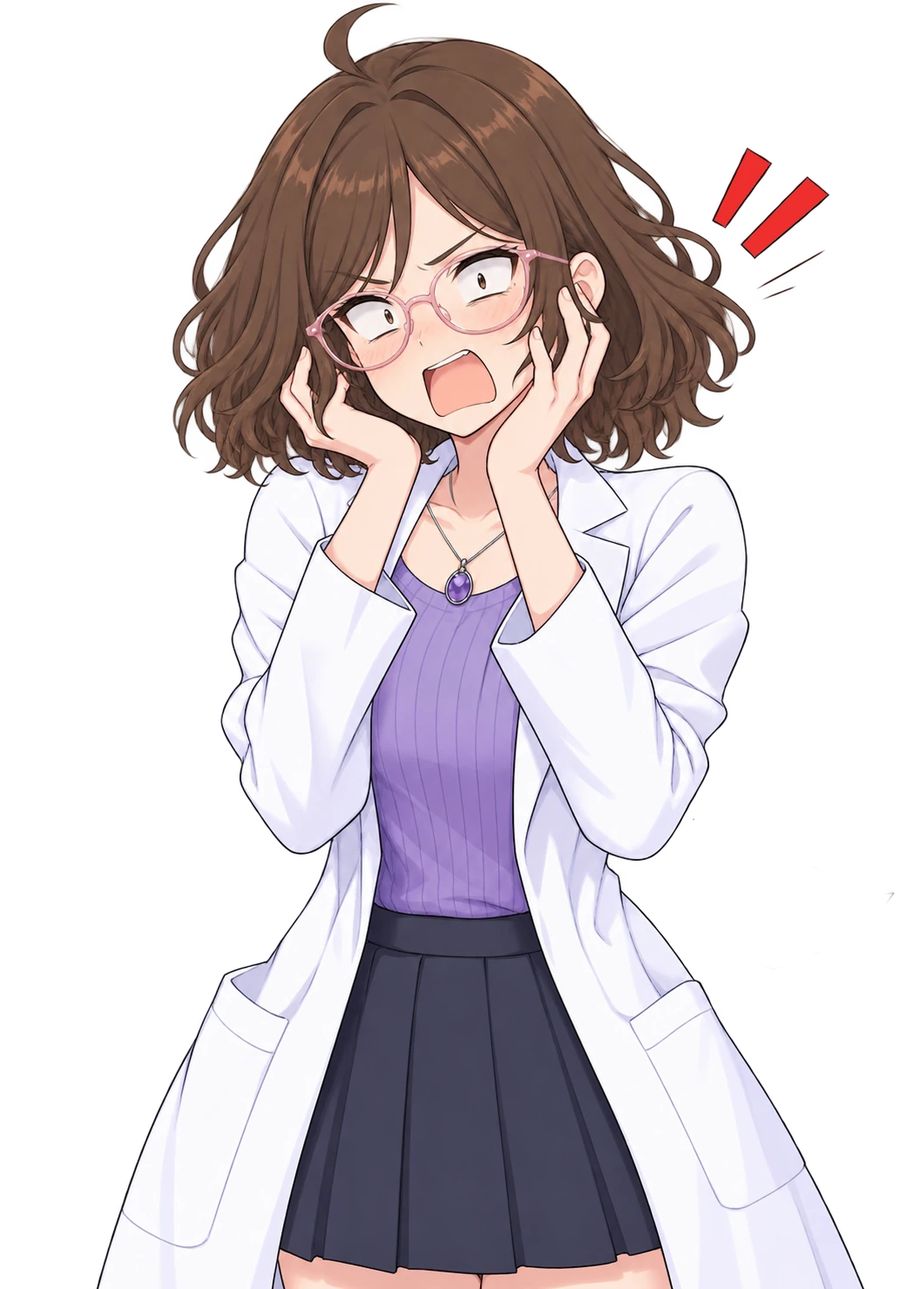
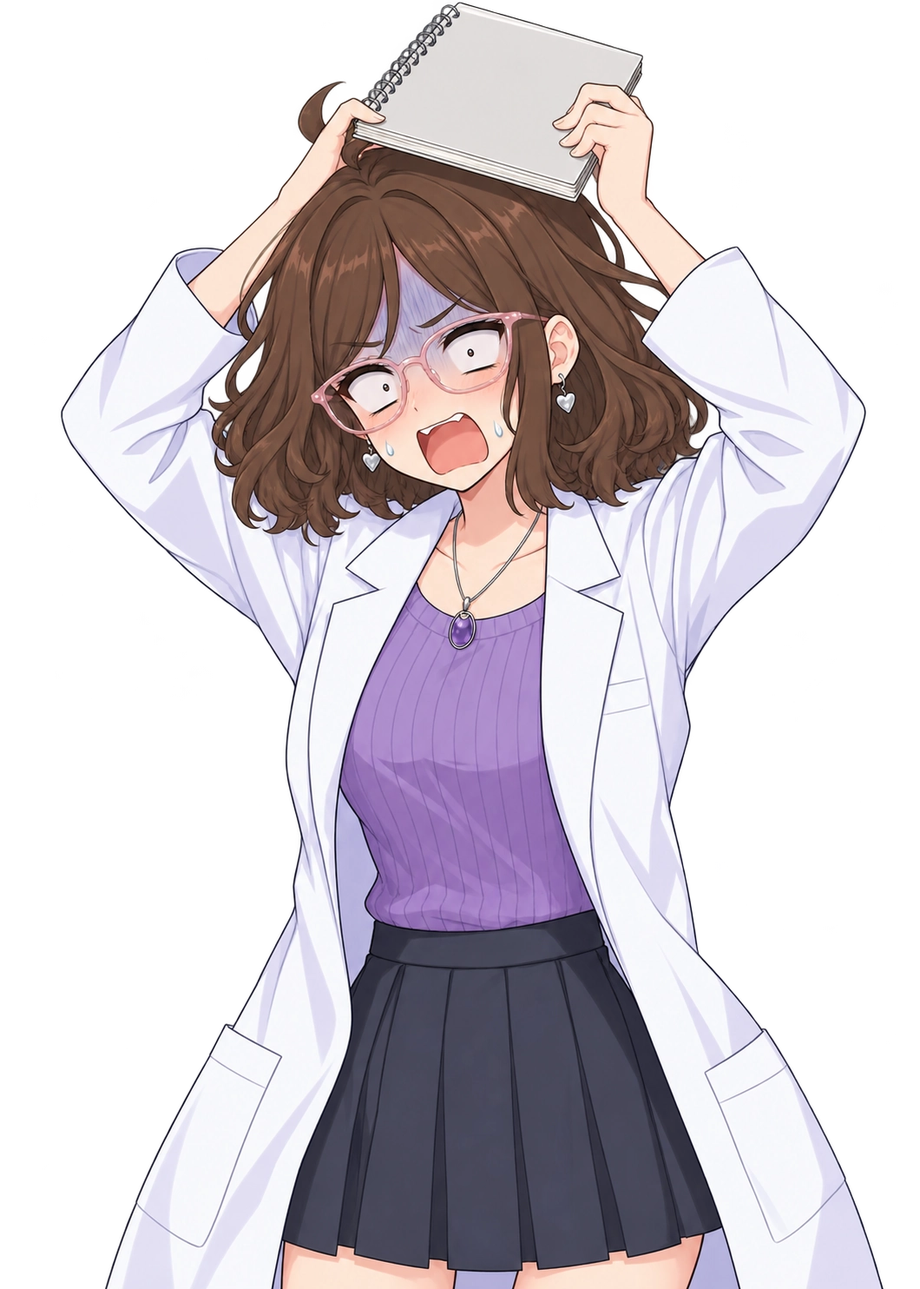
New sprites and update bad ones, update ALASKA_EXPRESSIONS_GUIDE.md with the new ones

diff --git a/assets/vn/ALASKA_EXPRESSIONS_GUIDE.md b/assets/vn/ALASKA_EXPRESSIONS_GUIDE.md
@@ -1,163 +1,227 @@
 # Guía de Dirección de Sprites y Expresiones de Alaska (`js/core/vn.js`)
 
-Este documento define el contrato estricto de uso para los **11 sprites** de **Alaska** en `assets/vn/`. 
+Este documento define el contrato estricto de dirección actoral para los **17 sprites** de **Alaska** en `assets/vn/`.
 
-**Regla de Oro de Dirección Visual:** La naturalidad de una Visual Novel depende del **contraste y la dosificación**. Si Alaska usa expresiones extremas (`panico`, `eureka`, `enojada`, `sonrojada`) todo el tiempo, el personaje pierde credibilidad, satura al estudiante y arruina el impacto de los momentos clave. El **80% del tiempo en pantalla** debe descansar sobre las poses conversacionales de baja intensidad (`base`, `explicando`, `evaluando`, `feliz`).
+**Regla de Oro de Dirección Visual:** La naturalidad de una Visual Novel depende del **contraste, la micro-actuación y la dosificación**. Si Alaska usa expresiones extremas (`panico`, `attack`, `eureka`, `enojada`, `sonrojada`) todo el tiempo, el personaje pierde credibilidad, satura al estudiante y arruina el impacto de los momentos clave. Al menos el **80% del tiempo en pantalla** debe descansar sobre las poses conversacionales y sutiles de **Tier 1** y **Tier 2**.
 
 ---
 
 ## 1. Clasificación por Niveles de Frecuencia (Tiers de Uso)
 
-Los 11 sprites se dividen en **4 Niveles de Frecuencia (Tiers)** que todo guion (`vn-scripts.js`) y sistema de reacciones (`createCheckBlock`, `retos.js`, widgets) debe respetar estrictamente:
+Los 17 sprites se dividen en **4 Niveles de Frecuencia (Tiers)** que todo guion (`vn-scripts.js`), glosario interactivo y sistema de reacciones (`createCheckBlock`, `retos.js`, widgets) debe respetar estrictamente:
 
-| Tier | Categoría | Sprites | Presupuesto de Uso |
+| Tier | Categoría | Sprites (17 en total) | Presupuesto de Uso |
 | :--- | :--- | :--- | :--- |
-| **Tier 1** | **Columna Vertebral (Uso Diario)** | `base.webp`, `explicando.webp`, `evaluando.webp` | **70% – 75%** de todas las líneas de diálogo. |
-| **Tier 2** | **Feedback Estándar y Personalidad** | `feliz.webp`, `orgullosa.webp`, `sospecha.webp` | **15% – 20%** de las líneas (cierres de idea, 1.er intento, advertencias suaves). |
-| **Tier 3** | **Alta Intensidad (Uso Condicionado)** | `colapso.webp`, `enojada.webp`, `eureka.webp` | **Máximo 1 vez** por guion o solo ante condiciones específicas de error/revelación. |
-| **Tier 4** | **Eventos Raros / Easter Eggs** | `sonrojada.webp`, `panico.webp` | **< 2%** (Exclusivos para hitos de perfección, rachas impecables o emergencias críticas). |
+| **Tier 1** | **Columna Vertebral (Uso Diario y Transiciones)** | `base.webp`, `pensativa.webp`, `explicando.webp`, `evaluando.webp` | **65% – 70%** de todas las líneas de diálogo. |
+| **Tier 2** | **Matices Sutiles, Empatía y Feedback Estándar** | `empatia.webp`, `complice.webp`, `feliz.webp`, `orgullosa.webp`, `sospecha.webp` | **20% – 25%** de las líneas (secretos de cátedra, consuelo, 1.er intento). |
+| **Tier 3** | **Alta Intensidad e Ironía (Uso Condicionado)** | `unamused.webp`, `lentes-brillo.webp`, `colapso.webp`, `enojada.webp`, `eureka.webp` | **Máximo 1 vez** por guion o ante errores/trampas específicas. |
+| **Tier 4** | **Eventos Especiales, Bosses y Easter Eggs** | `sonrojada.webp`, `panico.webp`, `attack.webp` | **< 3%** (Exclusivos para rachas perfectas, paradojas críticas y combates de Jefe). |
 
 ---
 
-## 2. Catálogo Detallado de los 11 Sprites: Cuándo Usarlos y Cuándo NO
+## 2. Catálogo Detallado de los 17 Sprites: Cuándo Usarlos y Cuándo NO
 
-### TIER 1 · Columna Vertebral Didáctica (Uso Constante)
+### TIER 1 · Columna Vertebral Didáctica (El Ritmo Natural de la Clase)
+
+La clave para que Alaska parezca viva en los guiones teóricos es rotar orgánicamente entre estas 4 poses: **escuchar/plantear (`base`) → buscar la idea mirando arriba (`pensativa`) → desarrollar hablando (`explicando`) → tomar un sorbo esperando que el alumno piense (`evaluando`)**.
 
 #### 1. `base.webp` (Intelectual / Acomodándose los lentes con boca cerrada)
-* **Gesto:** Pose serena acomodándose los lentes con la libreta en mano, boca cerrada.
+* **Gesto:** Pose serena de frente acomodándose los lentes con la libreta en mano y boca cerrada.
 * **Cuándo usarla:**
-  * En el **primer globo** al abrir una explicación teórica o presentar una definición formal.
+  * En el **primer globo** al abrir una explicación formal o presentar una definición.
   * Al entregar la **Pista Nivel 1** en un ejercicio.
-  * Como estado de reposo inicial cuando se abre una sección.
-* **Cuándo NO usarla:** No dejarla fija durante 4 globos seguidos de explicación hablada (porque tiene la boca cerrada y parece una estatua). Alternar siempre con `explicando.webp`.
+* **Cuándo NO usarla:** Nunca dejarla fija en 3 o más globos seguidos de explicación hablada (tiene la boca cerrada). Alternar enseguida con `pensativa.webp` o `explicando.webp`.
 
-#### 2. `explicando.webp` (Didáctica / Dedo índice arriba y boca abierta)
+#### 2. `pensativa.webp` (Visualizando en el aire / Buscando la metáfora) — **[TRANSICIÓN ESTRELLA]**
+* **Gesto:** Brazo izquierdo cruzado, dedo índice derecho apoyado suavemente en la mejilla, boca apenas entreabierta («hmm...») y **mirada dirigida hacia arriba a un costado**, rompiendo el contacto visual directo con la cámara.
+* **Cuándo usarla:**
+  * Como **puente natural** antes de introducir una intuición visual o cambiar el enfoque de una explicación (*«Pará, dejame pensar cómo mostrarte esto en el gráfico sin hacer cuentas feas... Miralo así:»*).
+  * Cuando Alaska se hace una pregunta en voz alta para guiar el razonamiento del alumno (*«A ver... si adentro de las barras tenemos $x + 3$, ¿qué número tendríamos que meter en $x$ para que esa suma dé cero?»*).
+  * Al entregar la **Pista Nivel 2** (cuando te invita a visualizar la geometría del problema).
+
+#### 3. `explicando.webp` (Didáctica / Dedo índice arriba y boca abierta)
 * **Gesto:** Mano derecha levantada con el dedo índice hacia arriba en gesto docente tranquilo, libreta en el brazo izquierdo, boca abierta hablando con calma.
 * **Cuándo usarla:**
-  * Es el **caballo de batalla** de todos los guiones de teoría (`vn-scripts.js`) y de los botones **`Base desde cero`**.
-  * Usar en todos los globos intermedios (pasos 2, 3 y 4 de una explicación) donde Alaska desglosa una propiedad paso a paso, despeja una ecuación o guía al usuario a mirar una parte del gráfico.
-  * Al entregar la **Pista Nivel 2 y Nivel 3**.
+  * Es el **caballo de batalla** para el desarrollo paso a paso en `vn-scripts.js` y en los guiones de **`Base desde cero`**.
+  * Usar en los globos centrales donde Alaska desarma una ecuación, aplica la propiedad uniforme o explica cómo leer los ejes.
+  * Al entregar la **Pista Nivel 3**.
 
-#### 3. `evaluando.webp` (Tomando café/mate / Observación analítica)
-* **Gesto:** Sosteniendo su taza con ambas manos a la altura del mentón, mirada tranquila, aguda y ligeramente juzgadora por encima de la taza.
+#### 4. `evaluando.webp` (Tomando café/mate / Observación analítica)
+* **Gesto:** Sosteniendo su taza con ambas manos a la altura del mentón, mirada tranquila, aguda y analítica por encima de la taza.
 * **Cuándo usarla:**
-  * Cuando Alaska hace una **pausa reflexiva o lanza una pregunta retórica** para que el usuario piense antes del siguiente paso (*«Ahora pensá dos segundos antes de mover el slider: ¿qué le pasa a la distancia si $x$ coincide exactamente con $h$?»*).
-  * En introducciones de problemas de análisis o lectura de gráficos (Modo Detective, Aduana de funciones por partes, comparación de fórmulas).
-  * Cuando el usuario está a mitad de un ejercicio de múltiples pasos (ej. ya clavó el vértice pero todavía está buscando la pendiente).
+  * Cuando Alaska hace una **pausa deliberada** después de explicar algo y te pasa la pelota para que interactúes con el widget (*«Probá ahora de arrastrar el vértice hacia la izquierda y fijate qué le pasa al signo adentro de las barras. Yo te espero acá con mi café.»*).
+  * En introducciones de modos de inspección (Detective de sucesiones, Aduana de dominios, Escáner vertical).
 
 ---
 
-### TIER 2 · Feedback Estándar y Matices (Uso Moderado)
+### TIER 2 · Matices Sutiles, Calidez y Feedback Estándar
 
-#### 4. `feliz.webp` (Sonrisa cálida y natural)
-* **Gesto:** Pose relajada de frente, sonrisa genuina y cercana.
+#### 5. `empatia.webp` (Suspiro comprensivo / Mano en el pecho)
+* **Gesto:** Ojos suavemente cerrados, cejas inclinadas con calidez, mano derecha apoyada sobre el pecho y media sonrisa comprensiva.
 * **Cuándo usarla:**
-  * Para dar la **bienvenida** al laboratorio en la Sección 1 o cerrar la Hoja de Repaso final.
-  * Cuando el usuario **resuelve bien un ejercicio después de haber fallado antes** (`failStreak >= 1`): transmite alivio y apoyo genuino tras haber corregido el error.
-  * Para invitar amablemente a probar un widget interactivo.
+  * Cuando valida que un tema, notación o enunciado **es genuinamente confuso o pesado** y le quita culpa al estudiante (*«Tranquila, no sos vos: llamar "ordenada" al eje Y y "abscisa" al eje X marea a cualquiera el primer día»* o cuando critica las traducciones robóticas de los libros).
+  * En el arranque de los botones **`Base desde cero: lo que nadie te explica`**, transmitiendo confianza para preguntar lo básico sin vergüenza.
+  * Cuando el usuario falla en un problema difícil pero estuvo muy cerca (ej. acertó todo el planteo y pifió en el último paso).
 
-#### 5. `orgullosa.webp` (Smug / Brazos cruzados con suficiencia)
-* **Gesto:** Brazos cruzados, barbilla alzada, ojos entornados y sonrisa pícara de *«te lo dije»*.
+#### 6. `complice.webp` (Guiño y tiza en mano / Secreto de cátedra)
+* **Gesto:** Ojo izquierdo guiñado con calidez, sonrisa de costado amigable, mano derecha sosteniendo una tiza blanca como quien comparte un atajo confidencial.
 * **Cuándo usarla:**
-  * Cuando el usuario **acierta al primer intento** (`failStreak === 0`) un ejercicio estándar.
-  * Cuando Alaska termina de desarmar una «trampa de parcial» en la que suele caer todo el mundo (*«¿Viste qué fácil era sin memorizar la receta de cambiar el signo?»*).
-* **Restricción:** No usarla en más de 1 globo por guion teórico para que no parezca arrogante todo el tiempo.
+  * Para revelar **«atajos de supervivencia de Exactas»** y trucos visuales que ahorran media hoja de cuentas (ej. *«Te tiro un secreto de corrector: antes de despejar nada, multiplicá todo el renglón por el denominador para limpiar las fracciones de entrada»*, o *«Para leer $k$ sin comerte ningún amague, enchufá $n = 1$ de cabeza»*).
+  * Mucho más cálida y aliada que `orgullosa.webp`: acá Alaska no se burla de vos, sino que te hace cómplice contra el examen.
 
-#### 6. `sospecha.webp` (Mirada de Detective / Escéptica)
-* **Gesto:** Mano en el mentón, cabeza levemente inclinada mirando con ojos entrecerrados de escepticismo puro.
-* **Cuándo usarla (Reemplaza el uso prematuro de `enojada` o `colapso`):**
-  * En el **1.er intento fallido (`failStreak === 1`)** cuando el error es sutil o conceptual: en vez de gritarle al alumno en su primer tropiezo, Alaska lo mira con sospecha (*«Mmm... mirá bien el signo que pusiste adentro de las barras. ¿Seguro que en $x = 3$ eso da cero?»*).
-  * Cuando `diagnose()` devuelve una advertencia de equivalencia no estándar (`not_standard_but_equivalent` / `unfactored_inner_coeff`): *«A ver... técnicamente tu fórmula da los mismos números, pero me escondiste el primer término simplificando así.»*
-  * En los bloques de **Cuidado con** al presentar un caso tramposo (como la tarea de Guillermo, Woo-Jin o Kiran).
+#### 7. `feliz.webp` (Sonrisa cálida y natural)
+* **Gesto:** Pose relajada de frente, mirada luminosa y sonrisa genuina.
+* **Cuándo usarla:**
+  * Para dar la **bienvenida** al módulo o cerrar positivamente la Hoja de Repaso.
+  * Cuando el usuario **resuelve bien un ejercicio después de haber fallado antes (`failStreak >= 1`)**: celebra que hayas entendido y corregido el error.
+
+#### 8. `orgullosa.webp` (Smug / Brazos cruzados con suficiencia)
+* **Gesto:** Brazos cruzados sobre el pecho, cabeza ligeramente ladeada, mirada confiada y sonrisa pícara de *«¿viste que tenía razón?»*.
+* **Cuándo usarla:**
+  * Cuando el usuario **acierta al primer intento (`failStreak === 0`)** un ejercicio individual.
+  * Cuando termina de demostrar por qué su método geométrico le gana por goleada a memorizar fórmulas.
+* **Restricción:** Máximo 1 globo por guion para no saturar.
+
+#### 9. `sospecha.webp` (Mirada de Detective / Escéptica con mano en el mentón)
+* **Gesto:** Mano derecha en el mentón, ojos entrecerrados mirando con escepticismo analítico.
+* **Cuándo usarla:**
+  * En el **1.er intento fallido (`failStreak === 1`)** ante errores de signos o desfasajes (`inverted_h_sign`, `off_by_one`, `sign_of_step`): en lugar de retar al alumno en su primer error, Alaska arquea la ceja y le hace dudar de su respuesta (*«Mmm... mirá el vértice en el gráfico y mirá el signo que pusiste. ¿No te quedó espejado?»*).
+  * Cuando `diagnose()` detecta una fórmula matemáticamente equivalente pero no canónica (`not_standard_but_equivalent`).
 
 ---
 
-### TIER 3 · Alta Intensidad (Máximo 1 aparición justificada por situación)
+### TIER 3 · Alta Intensidad, Ironía y Trampas (Uso Condicionado)
 
-#### 7. `eureka.webp` (¡Ajá! / Entusiasmo científico con destello)
-* **Gesto:** Ojos brillantes bien abiertos, sonrisa entusiasta, índice arriba y dos destellos amarillos de inspiración.
-* **Cuándo usarla (Con moderación):**
-  * **Únicamente en el momento de «Gran Revelación» (clímax conceptual)** donde se conectan dos temas que parecían separados. Ejemplos exactos:
-    * Cuando descubre que dividir por $3$ es multiplicar por el inverso $\frac{1}{3}$ y aparece el neutro multiplicativo $r^0 = 1$.
-    * Cuando se abre la llave de valor absoluto y se revela que toda «V» son dos rectas lineales pegadas en $x = h$.
-    * Cuando se conecta $\sqrt{x^2} = |x|$.
-* **Prohibición:** **Prohibido** usar `eureka.webp` como reemplazo de `explicando.webp` en explicaciones comunes o pasos algebraicos rutinarios. Máximo **2 o 3 apariciones en todo un módulo completo**.
+#### 10. `unamused.webp` (Sarcasmo / Palma levantada «Frená el carro»)
+* **Gesto:** Ojos a media asta con expresión de cansancio infinito (*deadpan*), mano derecha levantada mostrando la palma en señal de *«alto ahí»* y mano izquierda en la cintura.
+* **Cuándo usarla:**
+  * Cuando el estudiante cae en un **vicio clásico de escuela secundaria** o «receta mágica» contra los primeros principios:
+    * Olvidar las barras de valor absoluto (`missing_abs_bars`) escribiendo una recta común.
+    * Decir o intentar aplicar «pasa sumando / se tacha por magia» sin respetar la propiedad uniforme o el neutro.
+    * Confundir el eje X con el eje Y al escribir intervalos de crecimiento o positividad (`confused_x_and_y_in_intervals`, el famoso error de Guillermo).
+* **Diferencia con `enojada.webp`:** `unamused.webp` no grita ni tiembla; es decepción irónica y seca de profesora que ya corrigió 100 parciales iguales.
 
-#### 8. `colapso.webp` (Agobio intelectual / Mano en la frente con gota)
+#### 11. `lentes-brillo.webp` (Modo Jefa de Cátedra / Cristales iluminados)
+* **Gesto:** Empujándose el puente de los lentes con el dedo índice; los cristales reflejan una luz blanca opaca estilo anime con una sonrisa calculadora.
+* **Cuándo usarla:**
+  * Exclusiva para presentar **«Las 5 Trampas Clásicas de Examen»** en `retos.js` y los bloques de **Cuidado con** más picantes (ej. la trampa mortal de simplificar $\sqrt{x^2}$ como $x$ en vez de $|x|$, o la trampa de Woo-Jin y Kiran).
+  * Cuando te advierte con frialdad quirúrgica dónde el 90% de los ingresantes pierde el punto en el parcial.
+
+#### 12. `eureka.webp` (¡Ajá! / Entusiasmo científico con destello)
+* **Gesto:** Ojos brillantes bien abiertos, sonrisa entusiasta, índice arriba y destellos amarillos.
+* **Cuándo usarla (Con moderación estricta):**
+  * **Únicamente en el momento de «Gran Revelación» (clímax conceptual)** donde se conectan dos mundos matemáticos (ej. descubrir que toda función de valor absoluto es una función por partes disfrazada, o que $0$ saltos en geométrica es multiplicar por el neutro $r^0 = 1$).
+* **Restricción:** Prohibido usarla para explicaciones rutinarias. Máximo **2 veces en todo un laboratorio**.
+
+#### 13. `colapso.webp` (Agobio intelectual / Mano en la frente con gota)
 * **Gesto:** Mano en la frente, ojos cerrados de sufrimiento académico y gota de sudor.
 * **Cuándo usarla:**
-  * Cuando el usuario presiona el botón **«¡Estoy atorado! Mostrame la solución»**.
-  * Cuando en el guion se menciona hacer una locura tediosa a mano (como calcular 99 escalones recursivos de uno en uno) o cuando un alumno comete un clásico «dolor de ojos de corrector de Exactas» (como olvidar los paréntesis en una base negativa `-5^(n-1)` o intercambiar $h$ con $k$).
+  * Cuando el usuario presiona **«¡Estoy atorado! Mostrame la solución»**.
+  * Ante errores de jerarquía o distracción pesada (`neg_pow_precedence`, `swapped_h_k`, `swapped_k_step`, `wrong_anchor_a2`), o cuando explica lo absurdo de calcular 99 escalones recursivos a mano.
 
-#### 9. `enojada.webp` (Indignada / Puchero con vena de enojo)
-* **Gesto:** Brazos cruzados, mejillas infladas con rubor, ceño fruncido y símbolo rojo de enojo (acompañada por `.vn-shake`).
+#### 14. `enojada.webp` (Indignada / Puchero con vena de enojo)
+* **Gesto:** Brazos cruzados, mejillas infladas con rubor, ceño fruncido y símbolo rojo de enojo (acompañada por la animación `.vn-shake`).
 * **Cuándo usarla:**
-  * Cuando el usuario acumula **2 o más errores seguidos en la misma pregunta (`failStreak >= 2`)** demostrando que está tirando números al azar sin leer las pistas.
-  * Cuando el usuario comete una **ilegalidad matemática grave** en un guion (como unir los puntos aislados de una sucesión en $\mathbb{N}$ con una línea continua o decir «pasa restando por magia»).
-* **Prohibición:** **Nunca** usar `enojada.webp` en el primer error (`failStreak === 1`) de un ejercicio normal; para el primer error usar siempre `sospecha.webp` o `explicando.webp`.
+  * Cuando el usuario acumula **2 o más errores seguidos en la misma pregunta (`failStreak >= 2`)** tirando valores al azar sin leer las pistas.
+  * Cuando intenta una ilegalidad grave como unir los puntos aislados de una sucesión en $\mathbb{N}$ con una línea continua.
 
 ---
 
-### TIER 4 · Eventos Especiales y Easter Eggs (Uso Ultra Restringido)
+### TIER 4 · Eventos Especiales, Crisis y Combates de Jefe (Uso Ultra Restringido)
 
-#### 10. `sonrojada.webp` (*Tsundere* Avergonzada / Tapándose con la libreta) — **[EASTER EGG]**
-* **Gesto:** Cuerpo girado, cubriéndose parte de la cara con la libreta contra el pecho, mejillas muy sonrojadas, desviando la mirada nerviosa.
-* **Regla estricta de rareza:** Este sprite es un **premio oculto (Easter Egg)**. Si aparece en cada ejercicio bien hecho, pierde toda la gracia.
-* **Únicos 3 momentos donde está permitido activarlo:**
-  1. **Sección o Capítulo Perfecto (*Flawless Run*):** Cuando el usuario completa **todas** las preguntas de un bloque `Chequeo` (o todas las secciones de un Capítulo) al **primer intento (`0` fallos acumulados y `0` pistas pedidas)**.
-     * *Diálogo ejemplo:* «¿Eh? ¿Resolviste todo el bloque de una sin pedirme ni una pista?... B-bueno, tampoco te agrandes, ¿sí? ¡Solo significa que no explico tan mal como pensaba!»
-  2. **Racha Impecable en el Entrenador (`streak === 5`):** Cuando el usuario encadena 5 retos seguidos sin errores en `retos.js`.
-  3. **Easter Egg de Interacción:** Si el usuario hace clic 5 veces seguidas sobre el avatar/sprite de Alaska en el HUD.
+#### 15. `sonrojada.webp` (*Tsundere* Avergonzada / Tapándose con la libreta) — **[EASTER EGG]**
+* **Gesto:** Abrazando la libreta contra el pecho, mejillas muy sonrojadas, mirando hacia un costado nerviosa y tocándose un mechón de pelo.
+* **Regla estricta de rareza:** Es un **trofeo oculto (Easter Egg)**. Prohibido usarla en aciertos individuales normales.
+* **Únicos 3 disparadores permitidos:**
+  1. **Bloque o Capítulo Impecable (*Flawless Run*):** Completar todas las preguntas de un bloque `Chequeo` al **primer intento (`0` fallos y `0` pistas)**.
+  2. **Racha de 5 en el Entrenador (`streak === 5`):** Encadenar 5 retos seguidos sin errores en `retos.js`.
+  3. **Easter Egg del HUD:** Hacer clic 5 veces seguidas sobre el sprite de Alaska.
 
-#### 11. `panico.webp` (Shock / Emergencia de Laboratorio) — **[CRISIS & BOSSES]**
-* **Gesto:** Manos en las mejillas, boca abierta en grito de alarma, pupilas contraídas de shock cómico.
-* **Regla estricta de rareza:** Prohibido usarla en diálogos teóricos normales o por equivocarse en una cuenta común.
-* **Únicos 3 momentos donde está permitido activarla:**
-  1. **Paradojas y Catástrofes Matemáticas en Vivo sobre los Simuladores:**
-     * Cuando en `editor-tramos.js` (Sección 9 de Valor Absoluto) el usuario clava **dos puntos cerrados ($\bullet$) en la misma frontera $x = c$ a distinta altura**, disparando el láser vertical rosa de colisión que rompe la definición de función.
-     * Cuando en `inversa.js` (Funciones) el usuario intenta invertir una recta horizontal con pendiente $m = 0$ (división por cero / recta vertical).
-     * Cuando en `razon.js` (Sucesiones) el usuario fuerza el trazado continuo en $\mathbb{R}$ con base negativa $r < 0$, haciendo explotar el punto $n = 1,5$ con $\sqrt{-5} \notin \mathbb{R}$.
-     * Cuando en `escalera.js` el usuario apaga la segunda ancla de Fibonacci dejando a la máquina ciega.
-  2. **Modo Boss (Emergencia Real):** Cuando el reloj del jefe baja de los últimos segundos críticos o cuando el escudo del laboratorio recibe daño directo.
+#### 16. `panico.webp` (Shock / Emergencia de Laboratorio) — **[CRISIS & PARADOJAS]**
+* **Gesto:** Ambas manos en la cabeza sosteniendo la libreta arriba, sombra azul de terror cómico sobre los ojos, pupilas contraídas y grito de alarma.
+* **Únicos disparadores permitidos:**
+  1. **Rupturas y Paradojas Matemáticas en Vivo sobre los Simuladores:**
+     * Clavar **dos puntos cerrados ($\bullet$) en la misma frontera $x = c$** en `editor-tramos.js` (disparando el láser vertical rosa de colisión que destruye la unicidad de función).
+     * Intentar invertir una recta horizontal con pendiente $m = 0$ en `inversa.js` (división por cero).
+     * Forzar la curva continua en $\mathbb{R}$ con razón negativa $r < 0$ en `razon.js` (haciendo aparecer $\sqrt{-5} \notin \mathbb{R}$).
+  2. **Peligro Crítico en un Boss:** Cuando la integridad del laboratorio está en el último punto de vida o quedan menos de 5 segundos en la bomba.
+
+#### 17. `attack.webp` (Modo Comandante / «¡Rompele el Escudo!») — **[EXCLUSIVA DE BOSSES Y DESAFÍOS]**
+* **Gesto:** Pose dinámica de acción apuntando con el dedo índice directo hacia adelante (estilo *Ace Attorney / Persona All-Out Attack*), guardapolvo blanco al viento y mirada feroz decidida.
+* **Regla estricta de rareza:** Prohibido usarla en secciones teóricas tranquilas.
+* **Únicos disparadores permitidos:**
+  1. **Inicio y Contraataque en los Modos Boss (`boss-engine.js` / Deflector / Keep Calculating / Undertale / Persona):**
+     * Al declarar el inicio del combate contra un jefe o al ejecutar un contraataque exitoso (como reflejar el escudo con $f^{-1}$ o desviar el rayo láser hacia el núcleo).
+  2. **Modo «Desafío Inverso» o Cierre de Racha Épica:** Cuando el usuario acepta un desafío cronometrado o resuelve el problema más difícil del módulo.
 
 ---
 
-## 3. Reglas de Ritmo y Transición entre Globos (Pacing)
+## 3. Contrato Técnico para `js/core/vn.js` y `js/core/sound.js`
 
-1. **Prohibido el efecto «camaleón»:** En un guion de 5 mensajes (`playScript`), **no cambies el sprite en todos los mensajes** si la emoción no cambió. Está perfecto (y se siente mucho más natural) que dos globos consecutivos mantengan `explicando.webp` mientras desarrolla una idea.
-2. **Patrón clásico para un guion de 5 mensajes (`secX-...`):**
-   * **Mensaje 1 (`base` o `evaluando`):** Plantea el problema o pregunta inicial.
-   * **Mensaje 2 (`explicando`):** Desarma el concepto paso a paso.
-   * **Mensaje 3 (`explicando` o `sospecha`):** Señala el punto crítico o la trampa donde todos suelen fallar.
-   * **Mensaje 4 (`eureka` —solo si hay gran revelación— o `orgullosa`):** Muestra el puente visual definitivo.
-   * **Mensaje 5 (`feliz` o `explicando`):** Invita a probar la herramienta con las manos en el widget.
-3. **Configuración en `js/core/vn.js` y `js/core/sound.js`:**
-   * Registrar las 11 poses en `VN_POSES`:
-     ```js
-     export const VN_POSES = {
-       base: 'assets/vn/base.webp',
-       explicando: 'assets/vn/explicando.webp',
-       evaluando: 'assets/vn/evaluando.webp',
-       feliz: 'assets/vn/feliz.webp',
-       orgullosa: 'assets/vn/orgullosa.webp',
-       sospecha: 'assets/vn/sospecha.webp',
-       eureka: 'assets/vn/eureka.webp',
-       colapso: 'assets/vn/colapso.webp',
-       enojada: 'assets/vn/enojada.webp',
-       sonrojada: 'assets/vn/sonrojada.webp',
-       panico: 'assets/vn/panico.webp'
-     };
-     ```
-   * Etiquetas por defecto (`DEFAULT_TAGS`, **sin emojis**, usando `chalkIcon`):
-     * `base`: `'Modo Teoría'` (`icon: 'glasses'`)
-     * `explicando`: `'Paso a paso'` (`icon: 'book'`)
-     * `evaluando`: `'Analizando...'` (`icon: 'glasses'`)
-     * `feliz`: `'¡Bien ahí!'` (`icon: 'smile'`)
-     * `orgullosa`: `'Te lo advertí'` (`icon: 'smug'`)
-     * `sospecha`: `'Mmm... mirá bien'` (`icon: 'target'`)
-     * `eureka`: `'¡Conexión clave!'` (`icon: 'star'`)
-     * `colapso`: `'Colapso académico'` (`icon: 'drop'`)
-     * `enojada`: `'¡Frená la mano!'` (`icon: 'anger'`)
-     * `sonrojada`: `'N-no te agrandes...'` (`icon: 'spark'`)
-     * `panico`: `'¡Alerta de Laboratorio!'` (`icon: 'anger'`)
-   * **Precarga Inteligente:** Precargar de inmediato el Tier 1 y Tier 2 (`base`, `explicando`, `evaluando`, `feliz`, `orgullosa`, `sospecha`) al iniciar `initVN()`, y precargar el resto en segundo plano (`requestIdleCallback` o `setTimeout(..., 800)`) para no bloquear el primer renderizado.
+### 3.1 Registro de las 17 Poses en `VN_POSES` (`js/core/vn.js`)
+```js
+export const VN_POSES = {
+  // Tier 1: Columna vertebral
+  base: 'assets/vn/base.webp',
+  pensativa: 'assets/vn/pensativa.webp',
+  explicando: 'assets/vn/explicando.webp',
+  evaluando: 'assets/vn/evaluando.webp',
+
+  // Tier 2: Matices sutiles y feedback estándar
+  empatia: 'assets/vn/empatia.webp',
+  complice: 'assets/vn/complice.webp',
+  feliz: 'assets/vn/feliz.webp',
+  orgullosa: 'assets/vn/orgullosa.webp',
+  sospecha: 'assets/vn/sospecha.webp',
+
+  // Tier 3: Alta intensidad e ironía
+  unamused: 'assets/vn/unamused.webp',
+  'lentes-brillo': 'assets/vn/lentes-brillo.webp',
+  eureka: 'assets/vn/eureka.webp',
+  colapso: 'assets/vn/colapso.webp',
+  enojada: 'assets/vn/enojada.webp',
+
+  // Tier 4: Eventos raros, crisis y Bosses
+  sonrojada: 'assets/vn/sonrojada.webp',
+  panico: 'assets/vn/panico.webp',
+  attack: 'assets/vn/attack.webp'
+};
+
+```
+
+### 3.2 Etiquetas por Defecto (`DEFAULT_TAGS`) e Íconos de Tiza (Cero Emojis)
+
+```js
+const DEFAULT_TAGS = {
+  base:            { text: 'Modo Teoría',            icon: 'glasses' },
+  pensativa:       { text: 'Pensando en voz alta...', icon: 'spark' },
+  explicando:      { text: 'Paso a paso',            icon: 'book' },
+  evaluando:       { text: 'Tu turno de probar',     icon: 'glasses' },
+  empatia:         { text: 'Tranquila, paso a paso', icon: 'smile' },
+  complice:        { text: 'Secreto de cátedra',     icon: 'star' },
+  feliz:           { text: '¡Bien ahí!',             icon: 'smile' },
+  orgullosa:       { text: 'Te lo advertí',          icon: 'smug' },
+  sospecha:        { text: 'Mmm... mirá bien',       icon: 'target' },
+  unamused:        { text: 'Sin recetas mágicas',    icon: 'glasses' },
+  'lentes-brillo': { text: 'Trampa de Parcial',      icon: 'glasses' },
+  eureka:          { text: '¡Conexión clave!',       icon: 'star' },
+  colapso:         { text: 'Colapso académico',      icon: 'drop' },
+  enojada:         { text: '¡Frená la mano!',        icon: 'anger' },
+  sonrojada:       { text: 'N-no te agrandes...',    icon: 'spark' },
+  panico:          { text: '¡Alerta de Laboratorio!', icon: 'anger' },
+  attack:          { text: '¡Contraataque!',         icon: 'shield' }
+};
+
+```
+
+### 3.3 Animaciones de Entrada y Síntesis de Voz por Pose
+
+* **Animaciones CSS en `.vn-sprite-wrap`:**
+* `enojada` y `panico`: aplican `.vn-shake` (sacudida rápida).
+* `orgullosa`, `feliz`, `eureka`, `complice` y `attack`: aplican `.vn-pop` (rebote dinámico suave).
+* `pensativa`, `empatia`, `evaluando` y `unamused`: transición suave de opacidad/desplazamiento sin sacudidas bruscas.
+
+
+* **Precarga en 2 etapas (`initVN`):**
+* **Etapa 1 (Inmediata):** Precargar los 9 sprites de Tier 1 y Tier 2.
+* **Etapa 2 (Diferida en `requestIdleCallback`):** Precargar los 8 sprites de Tier 3 y Tier 4 para no penalizar el tiempo de carga inicial de la página.
